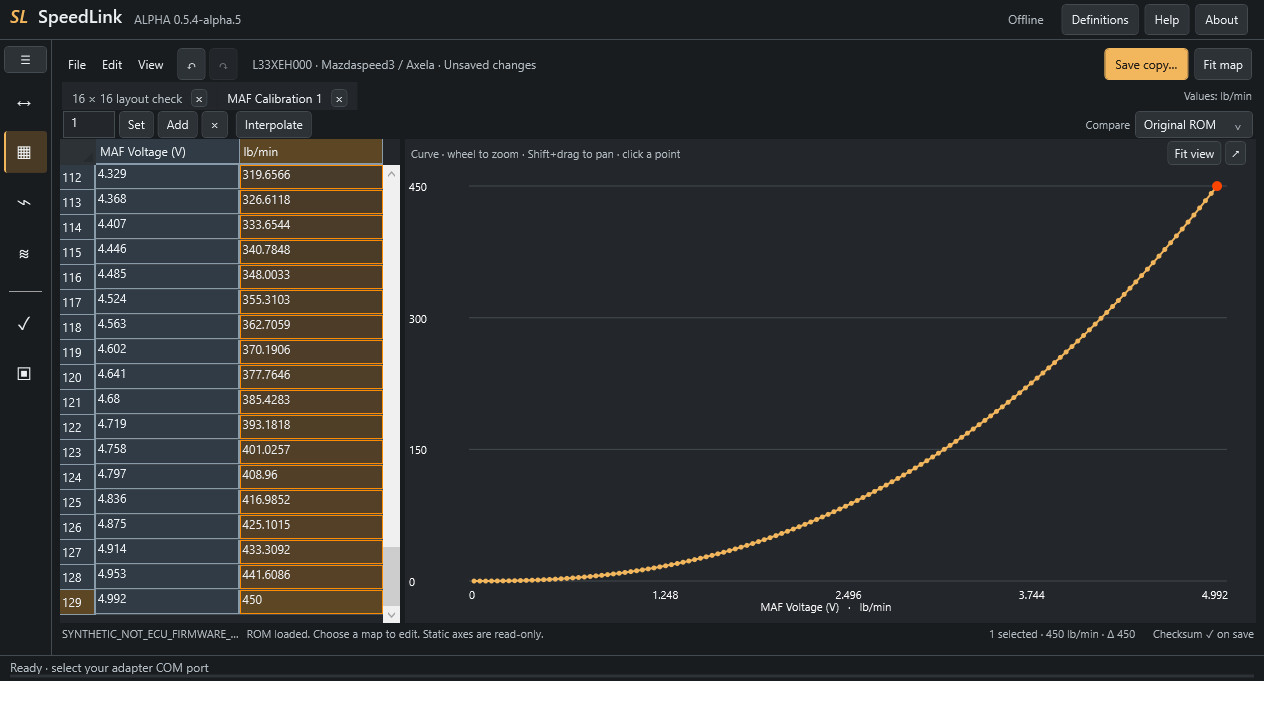
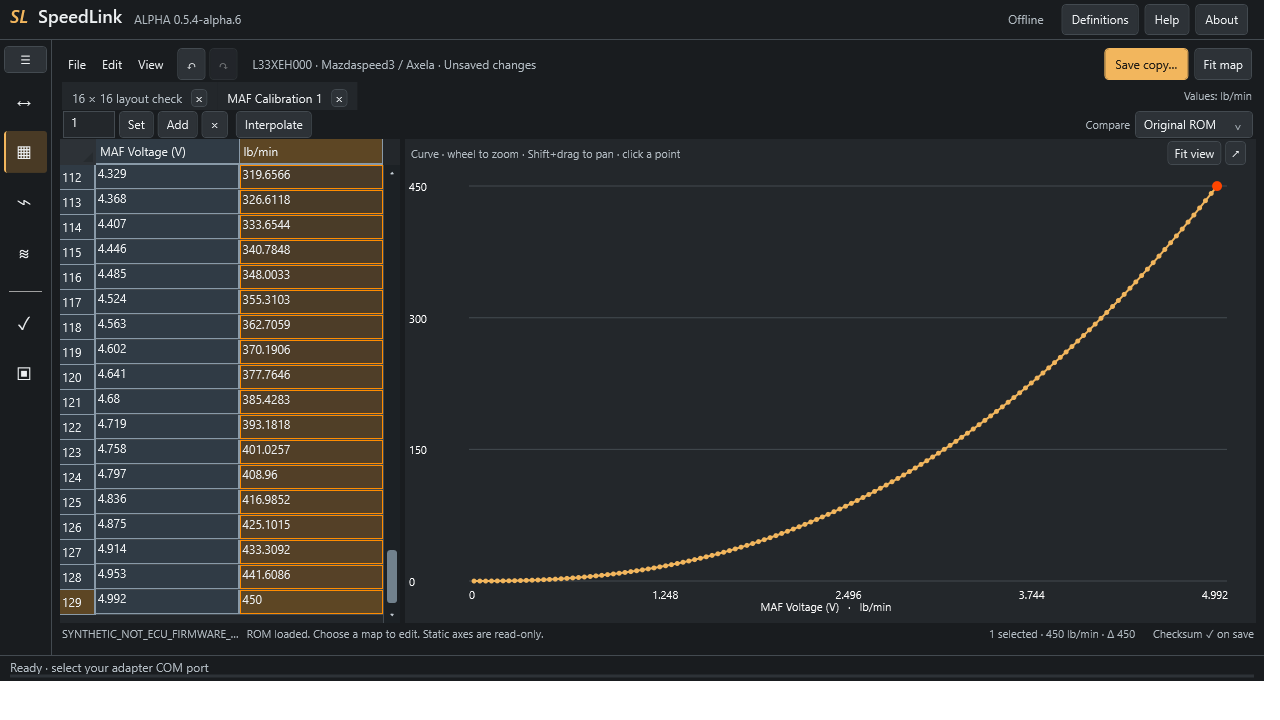
Match scrollbars to the editor and align table edges

Changed region(s): [[0.2812, 0.2139, 0.3125, 0.8861]]

diff --git a/dotnet/src/SpeedLink.Desktop/ScrollBars.xaml b/dotnet/src/SpeedLink.Desktop/ScrollBars.xaml
@@ -1,0 +1,57 @@
+<ResourceDictionary xmlns="http://schemas.microsoft.com/winfx/2006/xaml/presentation" xmlns:x="http://schemas.microsoft.com/winfx/2006/xaml">
+ <SolidColorBrush x:Key="ScrollTrackBrush" Color="#1C2125"/>
+ <SolidColorBrush x:Key="ScrollThumbBrush" Color="#71828E"/>
+ <SolidColorBrush x:Key="ScrollHoverBrush" Color="#A0B2BF"/>
+ <SolidColorBrush x:Key="ScrollGlyphBrush" Color="#CBD4DB"/>
+ <SolidColorBrush x:Key="{x:Static SystemColors.ControlBrushKey}" Color="#1C2125"/>
+ <Style x:Key="ScrollThumb" TargetType="Thumb">
+  <Setter Property="Background" Value="{StaticResource ScrollThumbBrush}"/><Setter Property="Focusable" Value="False"/>
+  <Setter Property="Template"><Setter.Value><ControlTemplate TargetType="Thumb">
+   <Border x:Name="Chrome" Background="{TemplateBinding Background}" CornerRadius="3" Margin="3" SnapsToDevicePixels="True"/>
+   <ControlTemplate.Triggers><Trigger Property="IsMouseOver" Value="True"><Setter TargetName="Chrome" Property="Background" Value="{StaticResource ScrollHoverBrush}"/></Trigger><Trigger Property="IsDragging" Value="True"><Setter TargetName="Chrome" Property="Background" Value="#F2B65D"/></Trigger><Trigger Property="IsEnabled" Value="False"><Setter TargetName="Chrome" Property="Opacity" Value="0.4"/></Trigger></ControlTemplate.Triggers>
+  </ControlTemplate></Setter.Value></Setter>
+ </Style>
+ <Style x:Key="ScrollArrow" TargetType="RepeatButton">
+  <Setter Property="Focusable" Value="False"/><Setter Property="Background" Value="Transparent"/>
+  <Setter Property="Template"><Setter.Value><ControlTemplate TargetType="RepeatButton">
+   <Border x:Name="Chrome" Background="{TemplateBinding Background}"><ContentPresenter HorizontalAlignment="Center" VerticalAlignment="Center"/></Border>
+   <ControlTemplate.Triggers><Trigger Property="IsMouseOver" Value="True"><Setter TargetName="Chrome" Property="Background" Value="#35414A"/></Trigger><Trigger Property="IsPressed" Value="True"><Setter TargetName="Chrome" Property="Background" Value="#493A25"/></Trigger><Trigger Property="IsEnabled" Value="False"><Setter TargetName="Chrome" Property="Opacity" Value="0.35"/></Trigger></ControlTemplate.Triggers>
+  </ControlTemplate></Setter.Value></Setter>
+ </Style>
+ <Style x:Key="ScrollPage" TargetType="RepeatButton">
+  <Setter Property="Focusable" Value="False"/>
+  <Setter Property="Template"><Setter.Value><ControlTemplate TargetType="RepeatButton"><Rectangle Fill="Transparent"/></ControlTemplate></Setter.Value></Setter>
+ </Style>
+ <ControlTemplate x:Key="VerticalScrollTemplate" TargetType="ScrollBar">
+  <Border Background="{TemplateBinding Background}" BorderBrush="#434A50" BorderThickness="1,0,0,0" SnapsToDevicePixels="True">
+   <Grid><Grid.RowDefinitions><RowDefinition Height="Auto"/><RowDefinition Height="*"/><RowDefinition Height="Auto"/></Grid.RowDefinitions>
+    <RepeatButton x:Name="LineDecrease" Height="{x:Static SystemParameters.VerticalScrollBarButtonHeight}" Style="{StaticResource ScrollArrow}" Command="{x:Static ScrollBar.LineUpCommand}" AutomationProperties.Name="Scroll up"><Path Data="M0,3 L3,0 L6,3" Stroke="{StaticResource ScrollGlyphBrush}" StrokeThickness="1.5" Width="6" Height="3" Stretch="Uniform"/></RepeatButton>
+    <Track x:Name="PART_Track" Grid.Row="1" Orientation="Vertical" IsDirectionReversed="True">
+     <Track.DecreaseRepeatButton><RepeatButton Style="{StaticResource ScrollPage}" Command="{x:Static ScrollBar.PageUpCommand}"/></Track.DecreaseRepeatButton>
+     <Track.Thumb><Thumb Style="{StaticResource ScrollThumb}" MinHeight="24"/></Track.Thumb>
+     <Track.IncreaseRepeatButton><RepeatButton Style="{StaticResource ScrollPage}" Command="{x:Static ScrollBar.PageDownCommand}"/></Track.IncreaseRepeatButton>
+    </Track>
+    <RepeatButton x:Name="LineIncrease" Grid.Row="2" Height="{x:Static SystemParameters.VerticalScrollBarButtonHeight}" Style="{StaticResource ScrollArrow}" Command="{x:Static ScrollBar.LineDownCommand}" AutomationProperties.Name="Scroll down"><Path Data="M0,0 L3,3 L6,0" Stroke="{StaticResource ScrollGlyphBrush}" StrokeThickness="1.5" Width="6" Height="3" Stretch="Uniform"/></RepeatButton>
+   </Grid>
+  </Border>
+ </ControlTemplate>
+ <ControlTemplate x:Key="HorizontalScrollTemplate" TargetType="ScrollBar">
+  <Border Background="{TemplateBinding Background}" BorderBrush="#434A50" BorderThickness="0,1,0,0" SnapsToDevicePixels="True">
+   <Grid><Grid.ColumnDefinitions><ColumnDefinition Width="Auto"/><ColumnDefinition Width="*"/><ColumnDefinition Width="Auto"/></Grid.ColumnDefinitions>
+    <RepeatButton x:Name="LineDecrease" Width="{x:Static SystemParameters.HorizontalScrollBarButtonWidth}" Style="{StaticResource ScrollArrow}" Command="{x:Static ScrollBar.LineLeftCommand}" AutomationProperties.Name="Scroll left"><Path Data="M3,0 L0,3 L3,6" Stroke="{StaticResource ScrollGlyphBrush}" StrokeThickness="1.5" Width="3" Height="6" Stretch="Uniform"/></RepeatButton>
+    <Track x:Name="PART_Track" Grid.Column="1" Orientation="Horizontal" IsDirectionReversed="False">
+     <Track.DecreaseRepeatButton><RepeatButton Style="{StaticResource ScrollPage}" Command="{x:Static ScrollBar.PageLeftCommand}"/></Track.DecreaseRepeatButton>
+     <Track.Thumb><Thumb Style="{StaticResource ScrollThumb}" MinWidth="24"/></Track.Thumb>
+     <Track.IncreaseRepeatButton><RepeatButton Style="{StaticResource ScrollPage}" Command="{x:Static ScrollBar.PageRightCommand}"/></Track.IncreaseRepeatButton>
+    </Track>
+    <RepeatButton x:Name="LineIncrease" Grid.Column="2" Width="{x:Static SystemParameters.HorizontalScrollBarButtonWidth}" Style="{StaticResource ScrollArrow}" Command="{x:Static ScrollBar.LineRightCommand}" AutomationProperties.Name="Scroll right"><Path Data="M0,0 L3,3 L0,6" Stroke="{StaticResource ScrollGlyphBrush}" StrokeThickness="1.5" Width="3" Height="6" Stretch="Uniform"/></RepeatButton>
+   </Grid>
+  </Border>
+ </ControlTemplate>
+ <Style TargetType="ScrollBar">
+  <Setter Property="Background" Value="{StaticResource ScrollTrackBrush}"/><Setter Property="Focusable" Value="False"/>
+  <Setter Property="Width" Value="{x:Static SystemParameters.VerticalScrollBarWidth}"/>
+  <Setter Property="Template" Value="{StaticResource VerticalScrollTemplate}"/>
+  <Style.Triggers><Trigger Property="Orientation" Value="Horizontal"><Setter Property="Width" Value="Auto"/><Setter Property="Height" Value="{x:Static SystemParameters.HorizontalScrollBarHeight}"/><Setter Property="Template" Value="{StaticResource HorizontalScrollTemplate}"/></Trigger></Style.Triggers>
+ </Style>
+</ResourceDictionary>

diff --git a/dotnet/src/SpeedLink.Desktop/EditorWorkspace.xaml b/dotnet/src/SpeedLink.Desktop/EditorWorkspace.xaml
@@ -31,7 +31,7 @@
     </DockPanel>
     <Grid Grid.Row="2" x:Name="DataLayout" SizeChanged="DataLayout_SizeChanged"><Grid.RowDefinitions><RowDefinition x:Name="TableRow" Height="3*" MinHeight="0"/><RowDefinition x:Name="DataDividerRow" Height="5"/><RowDefinition x:Name="GraphRow" Height="2*" MinHeight="0"/></Grid.RowDefinitions><Grid.ColumnDefinitions><ColumnDefinition x:Name="TableColumn" Width="*"/><ColumnDefinition x:Name="DataDividerColumn" Width="0"/><ColumnDefinition x:Name="GraphColumn" Width="0"/></Grid.ColumnDefinitions>
      <Grid x:Name="TablePanel"><Grid.RowDefinitions><RowDefinition x:Name="AxisTitleRow" Height="21"/><RowDefinition Height="*"/></Grid.RowDefinitions><Grid.ColumnDefinitions><ColumnDefinition x:Name="AxisLabelColumn" Width="20"/><ColumnDefinition Width="*"/></Grid.ColumnDefinitions>
-      <Grid Grid.Column="1" x:Name="XAxisBand"><Grid.ColumnDefinitions><ColumnDefinition x:Name="AxisHeaderSpacer" Width="64"/><ColumnDefinition Width="*"/><ColumnDefinition x:Name="AxisScrollbarSpacer" Width="0"/></Grid.ColumnDefinitions><Border Grid.ColumnSpan="3" Background="{DynamicResource AxisBandBrush}" BorderBrush="{DynamicResource AxisBorderBrush}" BorderThickness="1,1,1,0" IsHitTestVisible="False"/><TextBlock Grid.Column="1" x:Name="XAxisText" Foreground="{DynamicResource TextBrush}" FontSize="11" FontWeight="SemiBold" TextAlignment="Center" VerticalAlignment="Center" TextTrimming="CharacterEllipsis"/></Grid>
+      <Grid Grid.Column="1" x:Name="XAxisBand"><Grid.ColumnDefinitions><ColumnDefinition x:Name="AxisHeaderSpacer" Width="64"/><ColumnDefinition Width="*"/><ColumnDefinition x:Name="AxisScrollbarSpacer" Width="0"/></Grid.ColumnDefinitions><Border x:Name="XAxisChrome" Grid.ColumnSpan="2" Background="{DynamicResource AxisBandBrush}" BorderBrush="{DynamicResource AxisBorderBrush}" BorderThickness="1,1,1,0" IsHitTestVisible="False"/><TextBlock Grid.Column="1" x:Name="XAxisText" Foreground="{DynamicResource TextBrush}" FontSize="11" FontWeight="SemiBold" TextAlignment="Center" VerticalAlignment="Center" TextTrimming="CharacterEllipsis"/></Grid>
       <Border Grid.Row="1" x:Name="YAxisBand" Background="{DynamicResource AxisBandBrush}" BorderBrush="{DynamicResource AxisBorderBrush}" BorderThickness="1,1,0,1"><TextBlock x:Name="YAxisText" Foreground="{DynamicResource TextBrush}" FontSize="11" FontWeight="SemiBold" HorizontalAlignment="Center" VerticalAlignment="Center" TextTrimming="CharacterEllipsis"><TextBlock.LayoutTransform><RotateTransform Angle="-90"/></TextBlock.LayoutTransform></TextBlock></Border>
      <DataGrid Grid.Row="1" Grid.Column="1" x:Name="MapGrid" AutoGenerateColumns="False" CanUserAddRows="False" CanUserDeleteRows="False" CanUserReorderColumns="False" CanUserSortColumns="False" SelectionMode="Extended" SelectionUnit="Cell" HeadersVisibility="All" RowHeaderWidth="64" RowHeight="25" ColumnHeaderHeight="26" FontSize="12" EnableColumnVirtualization="True" EnableRowVirtualization="True" PreparingCellForEdit="Grid_PreparingEdit" CellEditEnding="Grid_EditEnding" SelectedCellsChanged="Grid_SelectionChanged" LoadingRow="Grid_LoadingRow" ScrollViewer.ScrollChanged="Grid_ScrollChanged" SizeChanged="Grid_SizeChanged">
       <DataGrid.RowHeaderStyle><Style TargetType="DataGridRowHeader" BasedOn="{StaticResource {x:Type DataGridRowHeader}}"><Setter Property="Padding" Value="2,2"/><Setter Property="Background" Value="{DynamicResource AxisBandBrush}"/><Setter Property="Foreground" Value="{DynamicResource TextBrush}"/><Setter Property="BorderBrush" Value="{DynamicResource AxisBorderBrush}"/><Setter Property="BorderThickness" Value="0,0,2,1"/><Style.Triggers><DataTrigger Binding="{Binding Path=(local:EditorWorkspace.IsAxisSelected), RelativeSource={RelativeSource AncestorType=DataGridRow}}" Value="True"><Setter Property="Background" Value="#5D4624"/><Setter Property="Foreground" Value="{DynamicResource TextBrush}"/></DataTrigger></Style.Triggers></Style></DataGrid.RowHeaderStyle>

diff --git a/dotnet/src/SpeedLink.Desktop/Theme.xaml b/dotnet/src/SpeedLink.Desktop/Theme.xaml
@@ -1,4 +1,5 @@
 <ResourceDictionary xmlns="http://schemas.microsoft.com/winfx/2006/xaml/presentation" xmlns:x="http://schemas.microsoft.com/winfx/2006/xaml">
+ <ResourceDictionary.MergedDictionaries><ResourceDictionary Source="ScrollBars.xaml"/></ResourceDictionary.MergedDictionaries>
  <SolidColorBrush x:Key="ShellBrush" Color="#191C1F"/><SolidColorBrush x:Key="PanelBrush" Color="#23272B"/><SolidColorBrush x:Key="RaisedBrush" Color="#2D3237"/>
  <SolidColorBrush x:Key="LineBrush" Color="#434A50"/><SolidColorBrush x:Key="TextBrush" Color="#EDF0F2"/><SolidColorBrush x:Key="MutedBrush" Color="#B2BBC2"/>
  <SolidColorBrush x:Key="AxisBandBrush" Color="#303B45"/><SolidColorBrush x:Key="AxisBorderBrush" Color="#899AA8"/>

diff --git a/dotnet/src/SpeedLink.Desktop/EditorScrollChecks.cs b/dotnet/src/SpeedLink.Desktop/EditorScrollChecks.cs
@@ -1,0 +1,93 @@
+using System.IO;
+using System.Windows;
+using System.Windows.Controls;
+using System.Windows.Controls.Primitives;
+using System.Windows.Input;
+using System.Windows.Media;
+
+namespace SpeedLink.Desktop;
+
+public partial class EditorWorkspace
+{
+    private async Task CheckScrollingFrame(string folder)
+    {
+        Directory.CreateDirectory(folder);
+        var bytes = document!.Snapshot();
+        var scroll = Descendants(MapGrid).OfType<ScrollViewer>().First();
+        await Settle(); UpdateAxisGeometry(); UpdateLayout();
+        var bars = Descendants(scroll).OfType<ScrollBar>().Where(b => b.IsVisible).ToArray();
+        var horizontal = bars.Single(b => b.Orientation == Orientation.Horizontal);
+        var vertical = bars.Single(b => b.Orientation == Orientation.Vertical);
+        Rect Bounds(FrameworkElement e) => e.TransformToAncestor(TablePanel).TransformBounds(new Rect(e.RenderSize));
+        if (Math.Abs(Bounds(XAxisChrome).Right - Bounds(vertical).Left) > 1 ||
+            Math.Abs(Bounds(YAxisBand).Bottom - Bounds(horizontal).Top) > 1)
+            throw new InvalidOperationException("Axis bands extend into the scrollbar corners.");
+        Track Part(ScrollBar bar)
+        {
+            var part = bar.Template.FindName("PART_Track", bar) as Track ?? throw new InvalidOperationException("Scrollbar track missing.");
+            if (bar.Background is not SolidColorBrush background || part.Thumb.Background is not SolidColorBrush thumb ||
+                Brightness(background.Color) > .4 || Brightness(thumb.Color) - Brightness(background.Color) < .2)
+                throw new InvalidOperationException("Scrollbar track/thumb contrast does not match the dark interface.");
+            return part;
+        }
+        var h = Part(horizontal); var v = Part(vertical);
+        void Invoke(RepeatButton button, ScrollBar bar)
+        {
+            if (button.Command is not RoutedCommand command || !command.CanExecute(button.CommandParameter, bar))
+                throw new InvalidOperationException("Scrollbar command is not available.");
+            command.Execute(button.CommandParameter, bar);
+        }
+        async Task Origin() { scroll.ScrollToLeftEnd(); scroll.ScrollToTop(); await Settle(); }
+        await Origin(); Capture(Path.Combine(folder, "TableScrollbars.png"));
+        Invoke((RepeatButton)horizontal.Template.FindName("LineIncrease", horizontal), horizontal);
+        Invoke((RepeatButton)vertical.Template.FindName("LineIncrease", vertical), vertical);
+        await Settle();
+        if (scroll.HorizontalOffset <= 0 || scroll.VerticalOffset <= 0) throw new InvalidOperationException("Scrollbar arrows do not move the viewport.");
+        await Origin(); Invoke(h.IncreaseRepeatButton, horizontal); Invoke(v.IncreaseRepeatButton, vertical); await Settle();
+        if (scroll.HorizontalOffset <= 0 || scroll.VerticalOffset <= 0) throw new InvalidOperationException("Scrollbar page commands do not move the viewport.");
+        await Origin();
+        void Drag(Thumb thumb, double x, double y)
+        {
+            thumb.RaiseEvent(new DragStartedEventArgs(0, 0) { RoutedEvent = Thumb.DragStartedEvent });
+            thumb.RaiseEvent(new DragDeltaEventArgs(x, y) { RoutedEvent = Thumb.DragDeltaEvent });
+            thumb.RaiseEvent(new DragCompletedEventArgs(x, y, false) { RoutedEvent = Thumb.DragCompletedEvent });
+        }
+        Drag(h.Thumb, 35, 0); Drag(v.Thumb, 0, 35); await Settle();
+        double right = scroll.HorizontalOffset, down = scroll.VerticalOffset;
+        if (right <= 0 || down <= 0) throw new InvalidOperationException("Dragging a scrollbar thumb does not follow the mouse direction.");
+        Drag(h.Thumb, -35, 0); Drag(v.Thumb, 0, -35); await Settle();
+        if (scroll.HorizontalOffset >= right || scroll.VerticalOffset >= down) throw new InvalidOperationException("Reverse thumb dragging does not move back toward the origin.");
+        SelectCell(table!.Count - 1); scroll.ScrollToRightEnd(); scroll.ScrollToBottom(); await Settle();
+        var last = MapGrid.Columns[^1].GetCellContent(MapGrid.Items[^1]) ?? throw new InvalidOperationException("Last map cell is not visible after scrolling to the edge.");
+        if (Bounds(last).Right > Bounds(vertical).Left + 1 || Bounds(last).Bottom > Bounds(horizontal).Top + 1)
+            throw new InvalidOperationException("The last map value is clipped by a scrollbar at the end of its range.");
+        Capture(Path.Combine(folder, "TableScrollbarsEnd.png"));
+        if (!bytes.AsSpan().SequenceEqual(document.Snapshot())) throw new InvalidOperationException("Scrolling changed ROM bytes.");
+    }
+    private async Task Settle()
+    {
+        await Dispatcher.InvokeAsync(() => { }, System.Windows.Threading.DispatcherPriority.ApplicationIdle); UpdateLayout();
+    }
+    private static double Brightness(Color c) => (.2126 * c.R + .7152 * c.G + .0722 * c.B) / 255;
+
+    private async Task CheckStockScrolling(string folder)
+    {
+        var previous = table; bool fitted = fitTable; int mode = ViewMode;
+        var stock = document!.Definition.Tables.Single(t => t.Name == "Closed Loop Max Ignition Timing");
+        OpenTable(stock); fitTable = false; SetViewMode(4); UpdateLayout();
+        var transform = TablePanel.LayoutTransform;
+        try
+        {
+            foreach (double scale in new[] { 1d, 1.25 })
+            {
+                TablePanel.LayoutTransform = new ScaleTransform(scale, scale); await Settle();
+                foreach (var column in MapGrid.Columns) column.Width = new(MapGrid.ActualWidth / stock.Columns + 40);
+                MapGrid.RowHeight = Math.Max(34, MapGrid.ActualHeight / stock.Rows + 5); await Settle();
+                await CheckScrollingFrame(scale == 1 ? folder : Path.Combine(folder, "ScaledScrollbars"));
+            }
+        }
+        finally { TablePanel.LayoutTransform = transform; }
+        if (previous is not null) OpenTable(previous);
+        fitTable = fitted; SetViewMode(mode); UpdateLayout();
+    }
+}

diff --git a/dotnet/src/SpeedLink.Desktop/EditorWorkspace.xaml.cs b/dotnet/src/SpeedLink.Desktop/EditorWorkspace.xaml.cs
@@ -367,7 +367,8 @@ public partial class EditorWorkspace : UserControl
         await Dispatcher.InvokeAsync(() => { }, System.Windows.Threading.DispatcherPriority.ApplicationIdle);
         CaptureWindow(graphWindow, Path.Combine(folder, "VvtSurface.png")); DockGraph_Click(this, new());
         await CheckMapInformation(folder);
-        return new { passed = true, calibration = doc.Definition.Calibration, controls = doc.Definition.Tables.Count, grid = true, directCellCommit = true, curve = true, surface = true, surfaceFollowsDrag = true, surfaceAxesFollowCamera = true, mapInformationShowsUnits = true, bitSelector = true, undoRedo = true, comparison = true, changedFilter = true, noEditExportIdentical = true, focusedAndAllViews = true, changesDrawer = true, workspaceEditsPreserved = true };
+        await CheckStockScrolling(folder);
+        return new { passed = true, calibration = doc.Definition.Calibration, controls = doc.Definition.Tables.Count, grid = true, directCellCommit = true, curve = true, surface = true, surfaceFollowsDrag = true, surfaceAxesFollowCamera = true, mapInformationShowsUnits = true, themedScrollbars = true, scrollbarInputAndEdges = true, scrollbarLayoutScales = new[] { 1d, 1.25 }, bitSelector = true, undoRedo = true, comparison = true, changedFilter = true, noEditExportIdentical = true, focusedAndAllViews = true, changesDrawer = true, workspaceEditsPreserved = true };
     }
     private void Capture(string path) => CaptureElement(this, path);
     private static void CaptureElement(FrameworkElement element, string path)

diff --git a/dotnet/src/SpeedLink.Desktop/EditorAxes.cs b/dotnet/src/SpeedLink.Desktop/EditorAxes.cs
@@ -2,6 +2,7 @@ using System.Globalization;
 using System.Windows;
 using System.Windows.Automation;
 using System.Windows.Controls;
+using System.Windows.Controls.Primitives;
 using System.Windows.Media;
 
 namespace SpeedLink.Desktop;
@@ -58,10 +59,12 @@ public partial class EditorWorkspace
     {
         if (XAxisBand is null || MapGrid is null) return;
         var scroll = Descendants(MapGrid).OfType<ScrollViewer>().FirstOrDefault();
-        double verticalBar = scroll?.ComputedVerticalScrollBarVisibility == Visibility.Visible ? SystemParameters.VerticalScrollBarWidth : 0;
-        double horizontalBar = scroll?.ComputedHorizontalScrollBarVisibility == Visibility.Visible ? SystemParameters.HorizontalScrollBarHeight : 0;
+        var bars = scroll is null ? [] : Descendants(scroll).OfType<ScrollBar>().ToArray();
+        double verticalBar = bars.FirstOrDefault(b => b.Orientation == Orientation.Vertical && b.IsVisible)?.ActualWidth ?? 0;
+        double horizontalBar = bars.FirstOrDefault(b => b.Orientation == Orientation.Horizontal && b.IsVisible)?.ActualHeight ?? 0;
         AxisHeaderSpacer.Width = new(MapGrid.RowHeaderWidth);
         AxisScrollbarSpacer.Width = new(verticalBar);
-        YAxisText.Margin = new(0, MapGrid.ColumnHeaderHeight, 0, horizontalBar);
+        YAxisBand.Margin = new(0, 0, 0, horizontalBar);
+        YAxisText.Margin = new(0, MapGrid.ColumnHeaderHeight, 0, 0);
     }
 }

diff --git a/dotnet/src/SpeedLink.Desktop/MainWindow.xaml.cs b/dotnet/src/SpeedLink.Desktop/MainWindow.xaml.cs
@@ -17,7 +17,7 @@ namespace SpeedLink.Desktop;
 
 public partial class MainWindow : Window
 {
-    public const string Version = "0.5.4-alpha.5";
+    public const string Version = "0.5.4-alpha.6";
     private void Editor_Click(object sender, RoutedEventArgs e) => Navigate(1);
     private readonly string vault;
     private readonly RomInspector inspector = new();

diff --git a/dotnet/docs/Validation.md b/dotnet/docs/Validation.md
@@ -1,5 +1,17 @@
 # C# validation
 
+## Scrollbars and table edges — 0.5.4-alpha.6
+
+- Dark scrollbar templates retain the standard track, arrow, page and thumb
+  interaction paths. Native editor checks exercise both scroll directions,
+  page commands and forward/reverse thumb drags on the stock ignition map.
+- Axis bands use the rendered scrollbar sizes and stop before their corners.
+  Checks reach the last row/column and verify the final value is unobscured.
+- The scrolling checks run at 100% and a 125% layout transform. This exercises
+  scaled layout; it is not a claim of physical multi-monitor DPI testing.
+- The seven-profile editor/layout/import checks retain full 16×16 fitting,
+  frozen axis labels, long MAF editing, unchanged ROM bytes and checksum repair.
+
 ## Map help and axis separation — 0.5.4-alpha.5
 
 - Reviewed 6,185 entries across the seven bundled profiles, including 300 distinct

diff --git a/README.md b/README.md
@@ -4,7 +4,7 @@ Open-source ROM reading, data logging and offline ROM editing for Mazdaspeed and
 
 [![C# checks](https://github.com/mrphyslaw/SpeedLink/actions/workflows/checks-dotnet.yml/badge.svg)](https://github.com/mrphyslaw/SpeedLink/actions/workflows/checks-dotnet.yml)
 
-**[Download v0.5.4-alpha.5](https://github.com/mrphyslaw/SpeedLink/releases/tag/v0.5.4-alpha.5)** — a single Windows EXE, with no installer or .NET installation required.
+**[Download v0.5.4-alpha.6](https://github.com/mrphyslaw/SpeedLink/releases/tag/v0.5.4-alpha.6)** — a single Windows EXE, with no installer or .NET installation required.
 
 SpeedLink can dump unknown 1 MiB MZR DISI ROMs, create two-pass verified backups,
 log stock-ECU data, review recordings and edit the seven supported stock ROM layouts.

diff --git a/docs/EDITOR.md b/docs/EDITOR.md
@@ -121,6 +121,8 @@ Expand **Storage details** for address, type and dimensions.
 The axis-label bands and breakpoint headers use a blue-gray background with
 bright separators; editable cells retain their value shading. The read-only
 breakpoint column in long MAF curves uses the same visual treatment.
+Dark scrollbars match the workspace. Axis bands stop before the scrollbars,
+leaving their corners clear when a table needs horizontal or vertical scrolling.
 The status strip and cell tooltips provide selected-value comparisons.
 
 Navigation, browser visibility/width, curve-list width, table/graph view and
